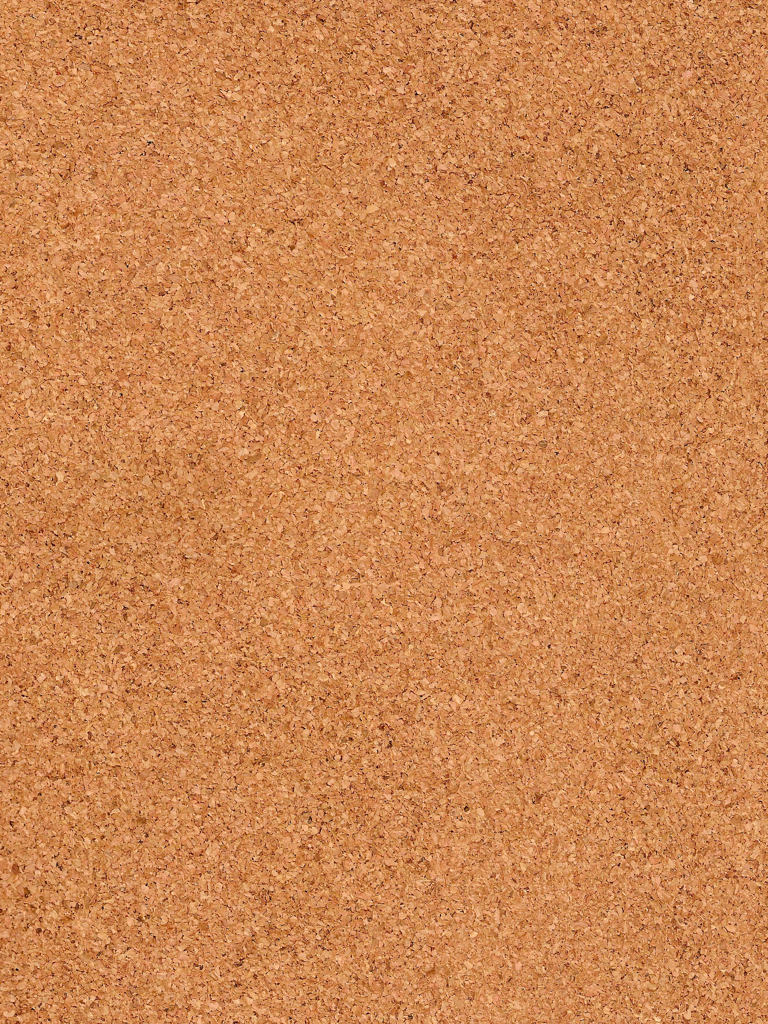
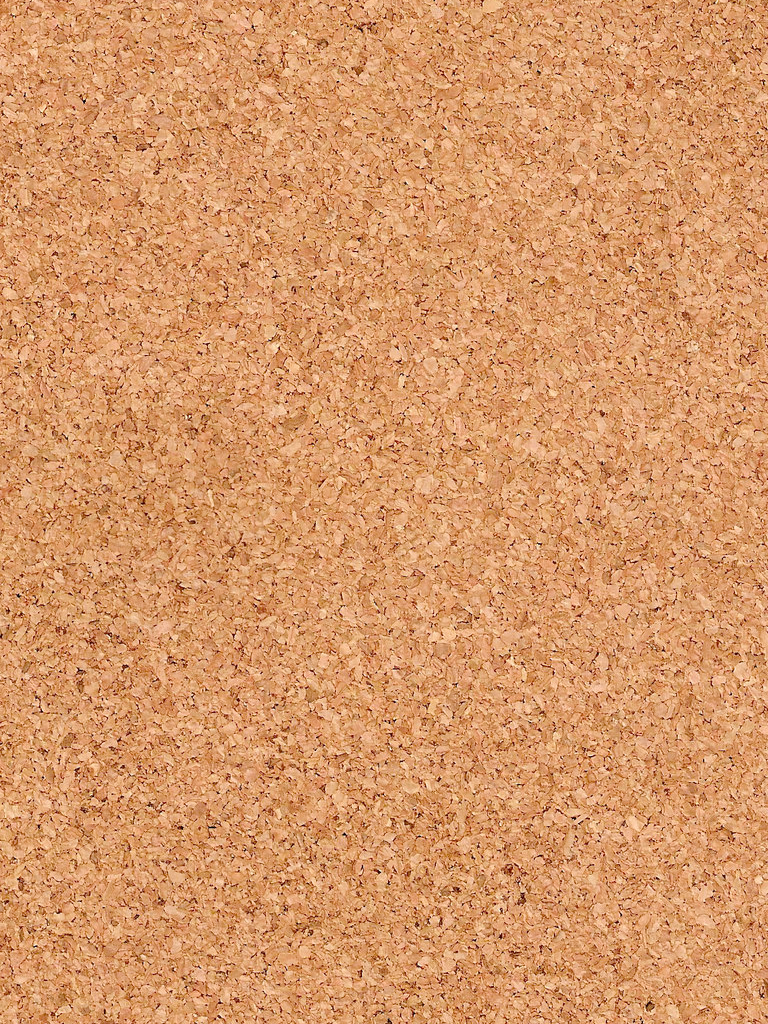
Added new background images and new scrolling mechanism

diff --git a/Classes/iPad/RootViewControllerPad.m b/Classes/iPad/RootViewControllerPad.m
@@ -20,6 +20,8 @@
 
 - (void)refresh;
 - (Note *)createNote;
+- (void)checkTrashIconEnabled;
+- (void)scrollNoteIntoView:(Note *)note;
 
 @end
 
@@ -33,9 +35,13 @@
 @synthesize locationButton = _locationButton;
 @synthesize locationManager = _locationManager;
 @synthesize locationInformationAvailable = _locationInformationAvailable;
+@synthesize holderView = _holderView;
+@synthesize scrollView = _scrollView;
 
 - (void)dealloc
 {
+    [_scrollView release];
+    [_holderView release];
     [_locationManager release];
     [_trashButton release];
     [_locationButton release];
@@ -55,10 +61,13 @@
     self.locationManager.desiredAccuracy = kCLLocationAccuracyBest;
     self.locationManager.distanceFilter = 100;
     [self.locationManager startUpdatingLocation];
-    
+
+    self.scrollView.contentSize = CGSizeMake(1024.0, 1004.0);
+
     self.locationInformationAvailable = NO;
     
     [self refresh];
+    [self checkTrashIconEnabled];
 }
 
 - (BOOL)shouldAutorotateToInterfaceOrientation:(UIInterfaceOrientation)interfaceOrientation
@@ -143,7 +152,7 @@
     
     [[MNOCoreDataManager sharedMNOCoreDataManager] save];
     [self refresh];
-    self.trashButton.enabled = YES;
+    [self scrollNoteIntoView:newNote];
 }
 
 - (IBAction)shakeNotes:(id)sender
@@ -165,6 +174,7 @@
         [[MNOCoreDataManager sharedMNOCoreDataManager] save];
         [self refresh];
         self.trashButton.enabled = YES;
+        [self scrollNoteIntoView:newNote];
     }
 }
 
@@ -192,15 +202,18 @@
     [[MNOCoreDataManager sharedMNOCoreDataManager] save];
     [self refresh];
     self.trashButton.enabled = YES;
+
+    [self scrollNoteIntoView:newNote];
 }
 
 - (IBAction)insertNewObject:(id)sender
 {
-	[self createNote];
+	Note *newNote = [self createNote];
     
     [[MNOCoreDataManager sharedMNOCoreDataManager] save];
     [self refresh];
     self.trashButton.enabled = YES;
+    [self scrollNoteIntoView:newNote];
 }
 
 #pragma mark - Private methods
@@ -212,7 +225,7 @@
     self.noteViews = [NSMutableArray array];
     for (Note *note in self.notes)
     {
-        NoteThumbnail *thumb = [[[NoteThumbnail alloc] initWithFrame:CGRectMake(0.0, 0.0, 150.0, 150.0)] autorelease];
+        NoteThumbnail *thumb = [[[NoteThumbnail alloc] initWithFrame:CGRectMake(0.0, 0.0, 200.0, 200.0)] autorelease];
         CGAffineTransform trans = CGAffineTransformMakeRotation(note.angleRadians);
         thumb.transform = trans;
         thumb.color = note.colorCode;
@@ -229,7 +242,7 @@
         [thumb addGestureRecognizer:pan];
         
         [self.noteViews addObject:thumb];
-        [self.view addSubview:thumb];
+        [self.holderView addSubview:thumb];
     }
 }
 
@@ -244,6 +257,19 @@
         newNote.longitude = [NSNumber numberWithDouble:self.locationManager.location.coordinate.longitude];
     }
     return newNote;
+}
+
+- (void)checkTrashIconEnabled
+{
+    self.trashButton.enabled = ([self.notes count] > 0);
+}
+
+- (void)scrollNoteIntoView:(Note *)note
+{
+    CGPoint point = note.position;
+    CGRect rect = CGRectMake(point.x - 100.0, point.y - 100.0, 200.0, 200.0);
+    [self.scrollView scrollRectToVisible:rect animated:YES];
+    self.trashButton.enabled = YES;
 }
 
 @end

diff --git a/Classes/Helpers/MNOCoreDataManager.m b/Classes/Helpers/MNOCoreDataManager.m
@@ -33,13 +33,13 @@ static ColorCode randomColorCode()
 
 static float randomXPosition()
 {
-    float position = (float)(arc4random() % 768);
+    float position = (float)(arc4random() % 824) + 100;
     return position;
 }
 
 static float randomYPosition()
 {
-    float position = (float)(arc4random() % 1024);
+    float position = (float)(arc4random() % 804) + 100;
     return position;
 }
 

diff --git a/Classes/iPad/RootViewControllerPad.h b/Classes/iPad/RootViewControllerPad.h
@@ -14,6 +14,8 @@
 
 @property (nonatomic, retain) IBOutlet UIBarButtonItem *trashButton;
 @property (nonatomic, retain) IBOutlet UIBarButtonItem *locationButton;
+@property (nonatomic, retain) IBOutlet UIView *holderView;
+@property (nonatomic, retain) IBOutlet UIScrollView *scrollView;
 
 - (IBAction)shakeNotes:(id)sender;
 - (IBAction)insertNewObject:(id)sender;
